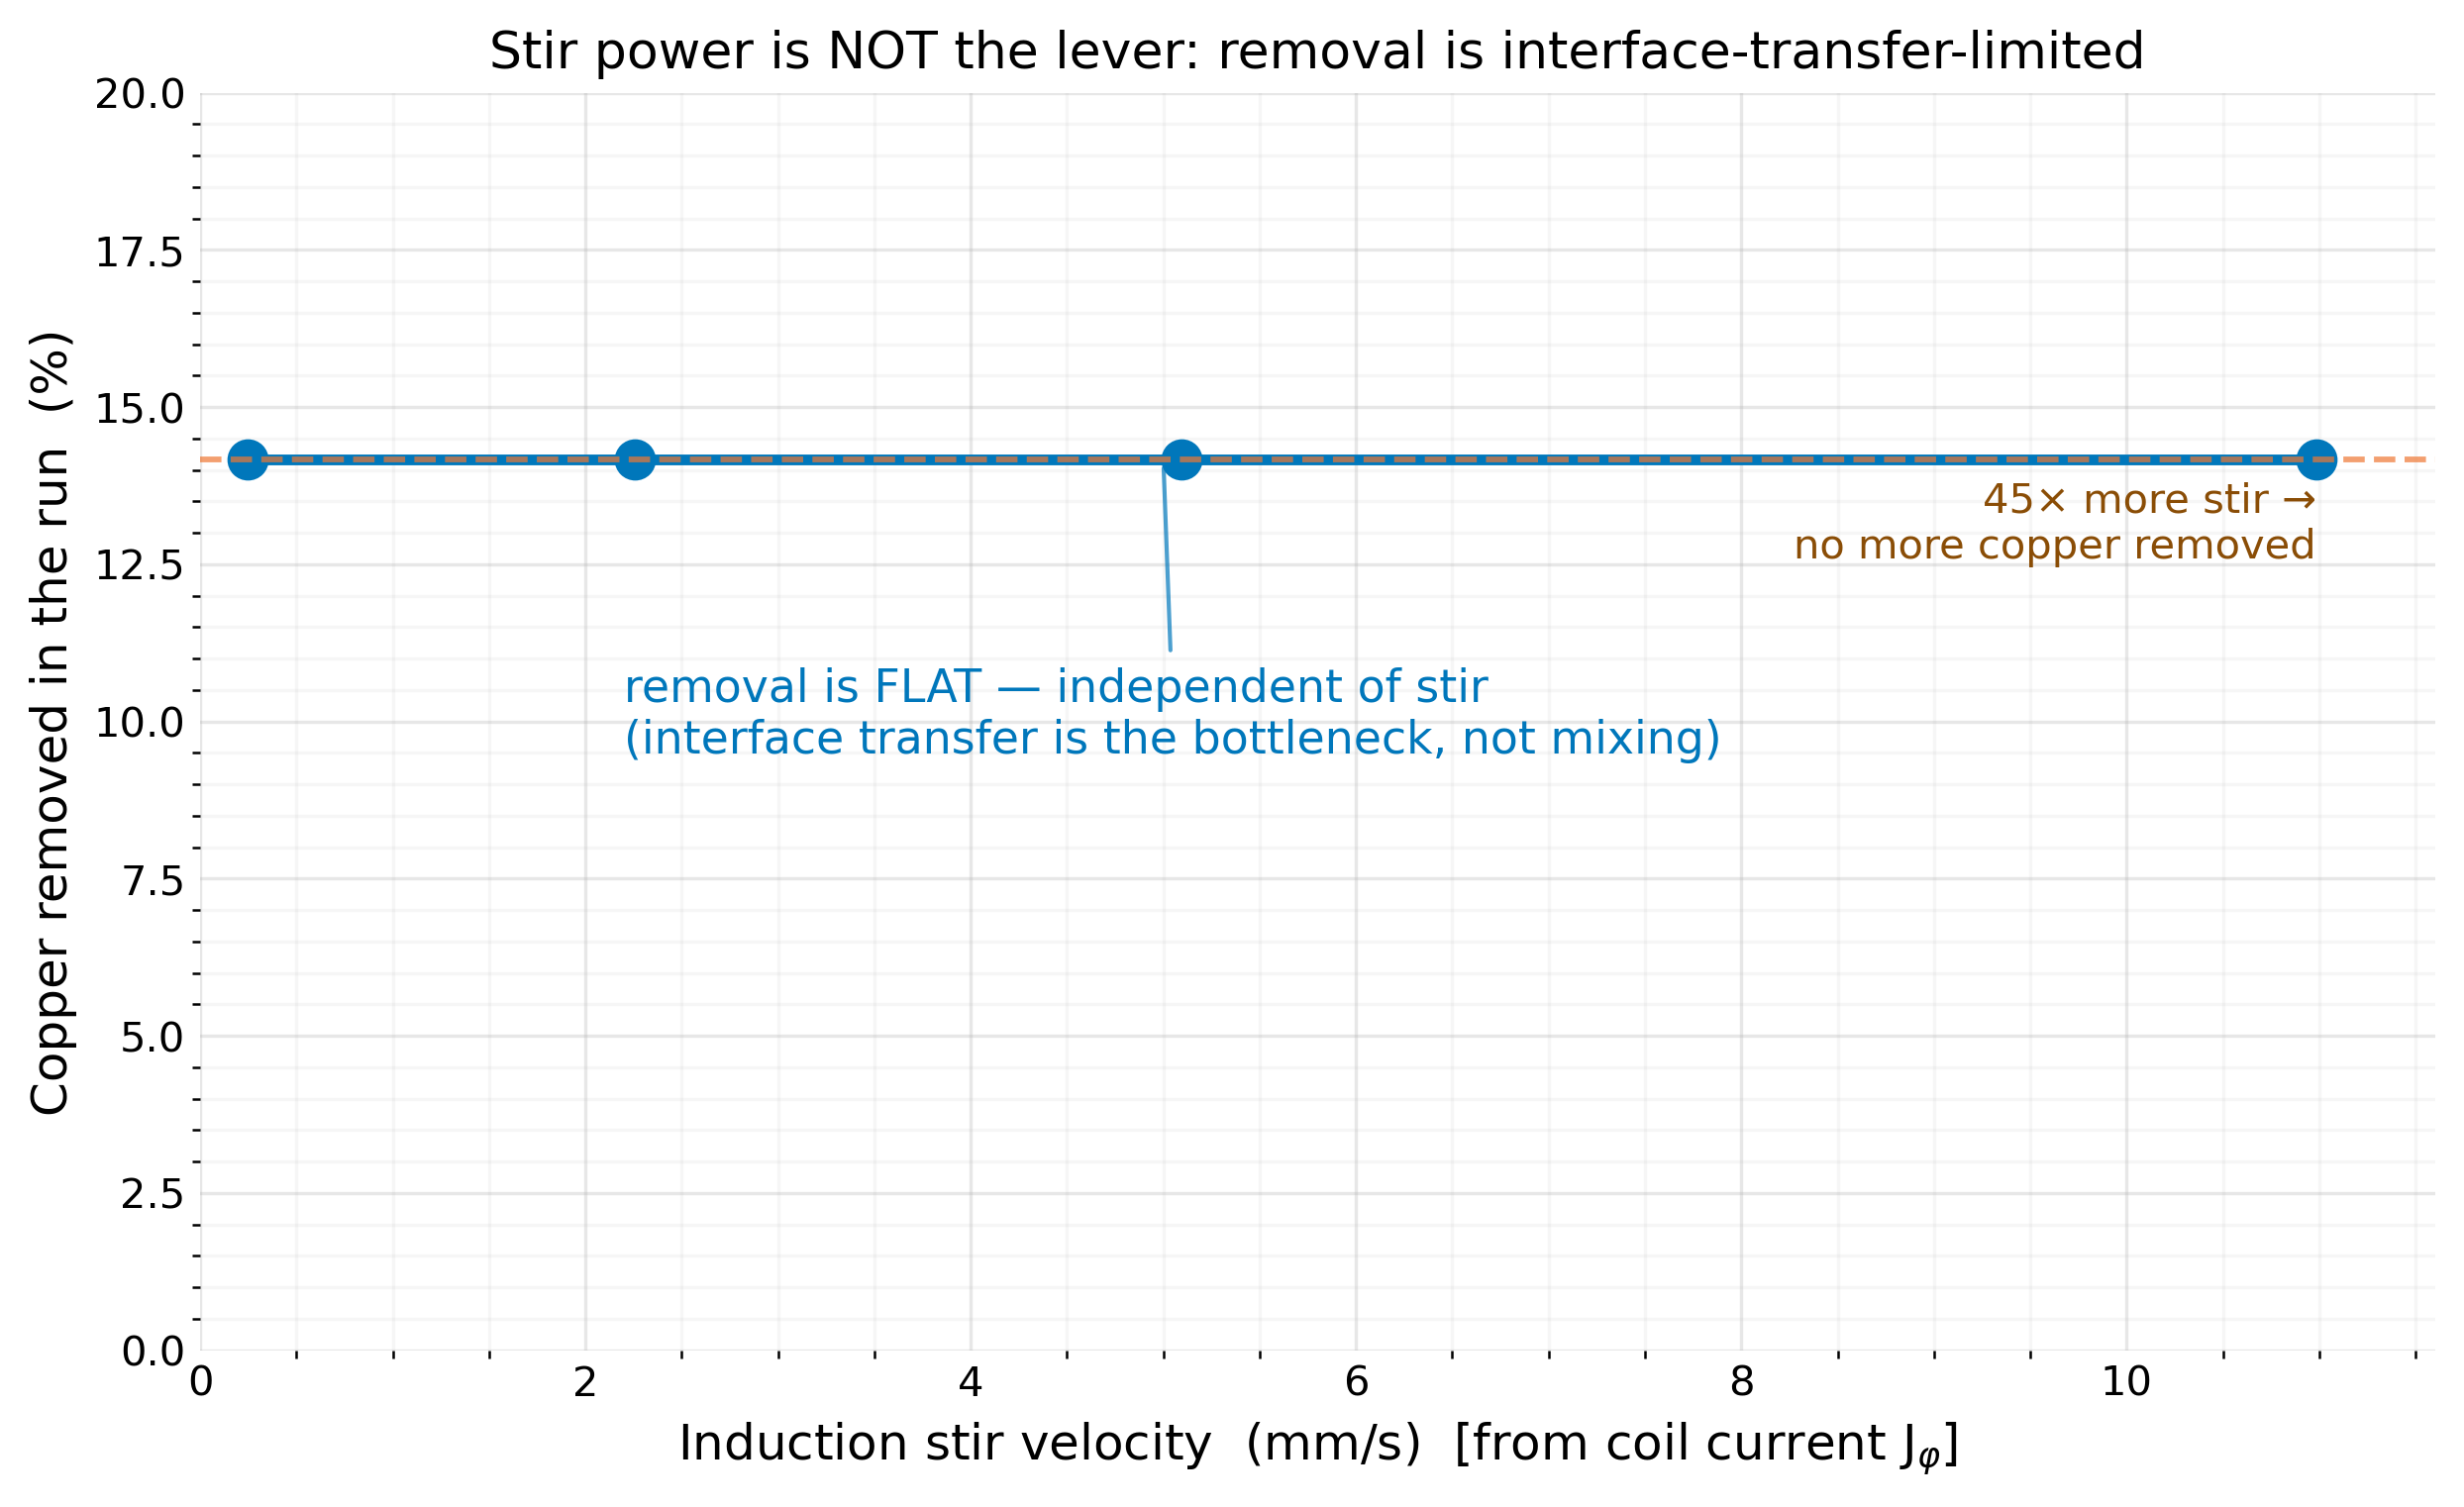
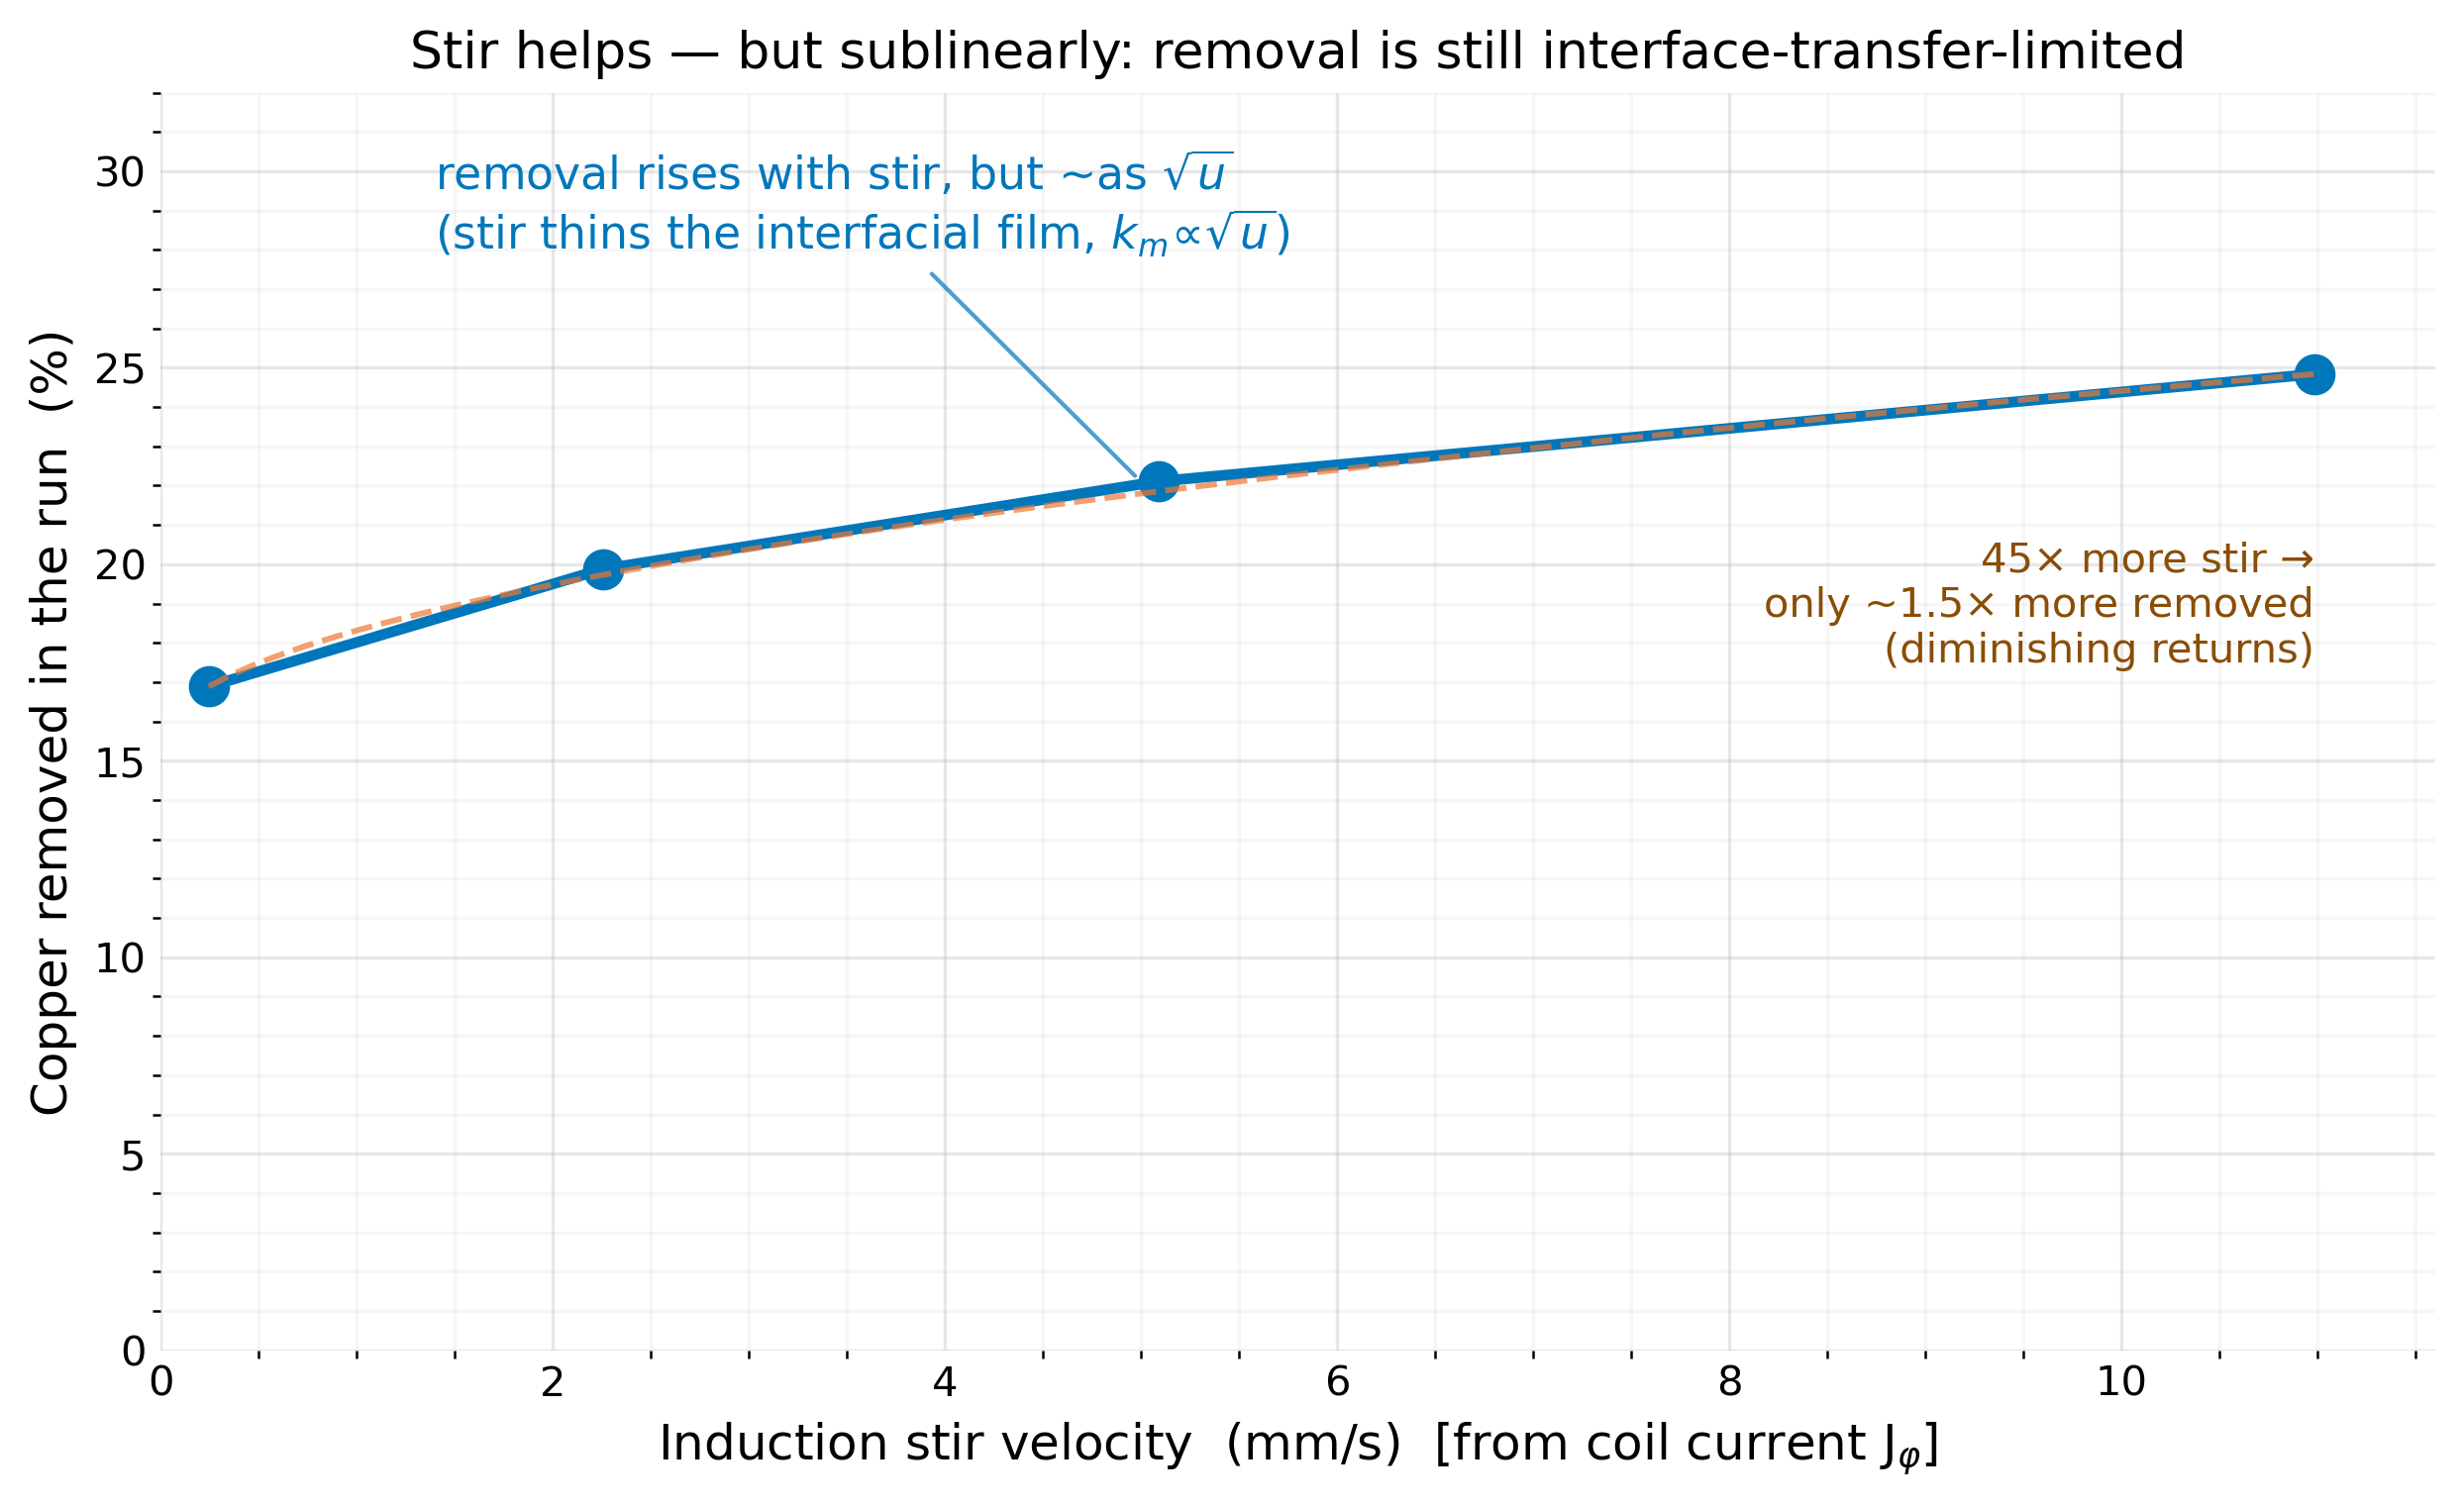
Two-lever update: stir sublinear (sqrt-law, saturates) vs area dominant (rate prop a, ->70%); add emulsification + characterization guidance

diff --git a/index.html b/index.html
@@ -296,18 +296,24 @@
   <p>Validated numbers: skin depth 18.9&nbsp;mm (field penetrates the 30&nbsp;mm crucible → it stirs),
   stir velocity 2.2&nbsp;mm/s, mass conserved to 0.9%.</p>
   <div class="correction" style="background:#eef4fb;border-color:#cfe0f2;border-left-color:#0b5394;color:#15324f;">
-  <b>The testable prediction.</b> Even at a vigorous 2.2&nbsp;mm/s stir, only ~18% of the steel's copper
-  crosses into the matte in 30&nbsp;minutes. The stir homogenizes the *bulk* steel quickly, but copper
-  crosses the interface slowly at the real diffusivity — so the <b>rate-limiting step is interfacial mass
-  transfer, not bulk mixing</b>. The practical lever is interfacial <b>area</b> (disperse the matte into
-  droplets / flotation), not more coil power. This is falsifiable: removal rate should scale with
-  interfacial area and saturate with stir intensity. It independently reproduces the surface-vs-volume
-  ceiling from Part&nbsp;2.</p></div>
-  <figure><img src="two_levers.png" alt="two levers: stir flat, area rising">
-    <figcaption>Figure&nbsp;10b. Two model sweeps, opposite verdicts. <b>(a)</b> 45&times; more induction
-    stir → copper removal unchanged (14.2%). <b>(b)</b> at fixed stir, 30&times; more interfacial
-    transport/area → removal nearly triples (14→40%). The actionable prediction: <b>disperse the matte to
-    raise contact area; don't over-power the coil.</b></figcaption></figure>
+  <b>The testable prediction — two levers, one verdict.</b> The model has two distinct knobs, and they
+  behave differently. <b>Stir</b> thins the diffusion film at the interface ($k_m\!\propto\!D/\delta$,
+  $\delta\!\propto\!1/\sqrt{u}$), so removal <i>does</i> rise with coil power — but only as $\sqrt{u}$:
+  in the sweep, <b>45× more stir buys just ~1.5× more copper removed</b> (≈17→25% over 30&nbsp;min).
+  Strongly diminishing returns. <b>Interfacial area</b>, by contrast, multiplies the removal <i>rate</i>
+  directly ($\dot C\!\propto\!k_m a$) — disperse the matte into droplets and <b>30× more contact area drives
+  3.5× more removal</b> (20→70% over the same 30&nbsp;min), pushing toward the thermodynamic ceiling. So the
+  rate-limiting step is interfacial mass transfer, and the <b>scalable lever is area, not coil power</b>:
+  the √-law stir knob plateaus near 25%; the area knob keeps climbing toward the equilibrium floor. This is
+  falsifiable — removal rate should rise sublinearly (√) with stir and linearly with interfacial area — and
+  it independently reproduces the surface-vs-volume ceiling from Part&nbsp;2.</p></div>
+  <figure><img src="two_levers.png" alt="two levers: stir sublinear, area linear">
+    <figcaption>Figure&nbsp;10b. Two model sweeps from the same operating point (stir 2.26&nbsp;mm/s,
+    19.9% baseline). <b>(a)</b> 45&times; more induction stir → only ~1.5&times; more copper removed
+    (17→25%): the √-law of boundary-layer thinning, so stir <i>saturates</i>. <b>(b)</b> at fixed stir,
+    30&times; more interfacial area → 3.5&times; more removal (20→70%), driving toward the equilibrium
+    ceiling — because the removal <i>rate</i> is linear in area. The actionable prediction: <b>disperse the
+    matte to raise contact area; don't over-power the coil.</b></figcaption></figure>
   <p style="font-size:13px;color:#5a6b80;"><i>Provenance: the electromagnetics, Joule heat, and
   Lorentz-stir are first-principles Maxwell + Navier–Stokes. The partition is modeled as an affinity
   drift calibrated to the CALPHAD partition L≈18 (TCOX14). Material properties are realistic but
@@ -319,9 +325,17 @@
 <div class="guide">
   <h3 style="margin-top:0;">Guidance for the Fontana-lab melt</h3>
   <ul>
-    <li><b>Stirring is mandatory, not optional.</b> The route is transport-limited (Panels&nbsp;3, 7).
-      Unstirred, copper takes days to reach an interface; a stirred ~0.5&nbsp;mm boundary layer makes it
-      minutes. Use a motor-driven graphite rod with logged RPM.</li>
+    <li><b>Area is the scalable lever — emulsify the matte.</b> The model says removal rises ~linearly with
+      steel/matte contact area but only as √(stir). So the single highest-leverage move is to break the
+      matte into <b>fine droplets dispersed in the steel</b>, not to crank the coil. Droplet breakup is set
+      by the Weber number $We=\rho u^2 d/\sigma$: emulsify with <b>gas injection</b> (argon lance / porous
+      plug — the standard ladle-metallurgy method, rising bubbles shear the interface) and/or a
+      <b>high-shear impeller</b>, and/or lower the steel/matte interfacial tension $\sigma$ with flux
+      composition. Induction stir alone is too gentle to emulsify — that is exactly why panel&nbsp;(a)
+      saturates.</li>
+    <li><b>Stirring is still mandatory.</b> The route is transport-limited (Panels&nbsp;3, 7). Unstirred,
+      copper takes days to reach an interface; a stirred ~0.5&nbsp;mm boundary layer makes it minutes. Use a
+      motor-driven graphite rod with logged RPM — but treat stir as the floor, emulsification as the lever.</li>
     <li><b>Lead with a high-Na₂S sulfide flux</b> — it does the bulk removal (partition ~18). Watch the
       <b>dose</b>: too little flux and the equilibrium floor sits above 0.10&nbsp;wt% (Panel&nbsp;8), so
       use enough matte or pair it with the pump.</li>
@@ -331,6 +345,18 @@
       recover copper as metal — only worth it once you are flux-limited.</li>
     <li><b>Run a no-additive control melt</b> under identical conditions, and measure Cu wt% before/after
       (OES or XRF). Fe₂O₃ powder as an oxygen vehicle, open air.</li>
+  </ul>
+  <h3 style="margin-bottom:6px;">Characterizing interfacial area (so the "area lever" is measurable, not hand-waved)</h3>
+  <ul>
+    <li><b>Quench &amp; section.</b> Rapidly quench a melt sample, polish, image the frozen matte droplets
+      (optical / SEM) → droplet-size distribution → specific area $a=6\phi/\bar d$. This is the direct
+      readout of how well you emulsified.</li>
+    <li><b>Removal kinetics.</b> Sample Cu vs time and fit $dC/dt=-k_m a\,(C-C_\mathrm{eq})$ → the lumped
+      $k_m a$. Repeat across gas-flow / impeller-speed settings → that <i>is</i> the area-lever curve,
+      measured. It tests the model's linear-in-area, sublinear-in-stir prediction head-on.</li>
+    <li><b>Cold model (optional, cheap).</b> Transparent water (steel) + oil (matte) with matched
+      density/viscosity/interfacial-tension ratios; high-speed video of droplet breakup vs shear → a
+      Weber-number correlation $\bar d(u)$ you can apply back to the melt.</li>
   </ul>
 </div>
 

diff --git a/story.html b/story.html
@@ -296,18 +296,24 @@
   <p>Validated numbers: skin depth 18.9&nbsp;mm (field penetrates the 30&nbsp;mm crucible → it stirs),
   stir velocity 2.2&nbsp;mm/s, mass conserved to 0.9%.</p>
   <div class="correction" style="background:#eef4fb;border-color:#cfe0f2;border-left-color:#0b5394;color:#15324f;">
-  <b>The testable prediction.</b> Even at a vigorous 2.2&nbsp;mm/s stir, only ~18% of the steel's copper
-  crosses into the matte in 30&nbsp;minutes. The stir homogenizes the *bulk* steel quickly, but copper
-  crosses the interface slowly at the real diffusivity — so the <b>rate-limiting step is interfacial mass
-  transfer, not bulk mixing</b>. The practical lever is interfacial <b>area</b> (disperse the matte into
-  droplets / flotation), not more coil power. This is falsifiable: removal rate should scale with
-  interfacial area and saturate with stir intensity. It independently reproduces the surface-vs-volume
-  ceiling from Part&nbsp;2.</p></div>
-  <figure><img src="two_levers.png" alt="two levers: stir flat, area rising">
-    <figcaption>Figure&nbsp;10b. Two model sweeps, opposite verdicts. <b>(a)</b> 45&times; more induction
-    stir → copper removal unchanged (14.2%). <b>(b)</b> at fixed stir, 30&times; more interfacial
-    transport/area → removal nearly triples (14→40%). The actionable prediction: <b>disperse the matte to
-    raise contact area; don't over-power the coil.</b></figcaption></figure>
+  <b>The testable prediction — two levers, one verdict.</b> The model has two distinct knobs, and they
+  behave differently. <b>Stir</b> thins the diffusion film at the interface ($k_m\!\propto\!D/\delta$,
+  $\delta\!\propto\!1/\sqrt{u}$), so removal <i>does</i> rise with coil power — but only as $\sqrt{u}$:
+  in the sweep, <b>45× more stir buys just ~1.5× more copper removed</b> (≈17→25% over 30&nbsp;min).
+  Strongly diminishing returns. <b>Interfacial area</b>, by contrast, multiplies the removal <i>rate</i>
+  directly ($\dot C\!\propto\!k_m a$) — disperse the matte into droplets and <b>30× more contact area drives
+  3.5× more removal</b> (20→70% over the same 30&nbsp;min), pushing toward the thermodynamic ceiling. So the
+  rate-limiting step is interfacial mass transfer, and the <b>scalable lever is area, not coil power</b>:
+  the √-law stir knob plateaus near 25%; the area knob keeps climbing toward the equilibrium floor. This is
+  falsifiable — removal rate should rise sublinearly (√) with stir and linearly with interfacial area — and
+  it independently reproduces the surface-vs-volume ceiling from Part&nbsp;2.</p></div>
+  <figure><img src="two_levers.png" alt="two levers: stir sublinear, area linear">
+    <figcaption>Figure&nbsp;10b. Two model sweeps from the same operating point (stir 2.26&nbsp;mm/s,
+    19.9% baseline). <b>(a)</b> 45&times; more induction stir → only ~1.5&times; more copper removed
+    (17→25%): the √-law of boundary-layer thinning, so stir <i>saturates</i>. <b>(b)</b> at fixed stir,
+    30&times; more interfacial area → 3.5&times; more removal (20→70%), driving toward the equilibrium
+    ceiling — because the removal <i>rate</i> is linear in area. The actionable prediction: <b>disperse the
+    matte to raise contact area; don't over-power the coil.</b></figcaption></figure>
   <p style="font-size:13px;color:#5a6b80;"><i>Provenance: the electromagnetics, Joule heat, and
   Lorentz-stir are first-principles Maxwell + Navier–Stokes. The partition is modeled as an affinity
   drift calibrated to the CALPHAD partition L≈18 (TCOX14). Material properties are realistic but
@@ -319,9 +325,17 @@
 <div class="guide">
   <h3 style="margin-top:0;">Guidance for the Fontana-lab melt</h3>
   <ul>
-    <li><b>Stirring is mandatory, not optional.</b> The route is transport-limited (Panels&nbsp;3, 7).
-      Unstirred, copper takes days to reach an interface; a stirred ~0.5&nbsp;mm boundary layer makes it
-      minutes. Use a motor-driven graphite rod with logged RPM.</li>
+    <li><b>Area is the scalable lever — emulsify the matte.</b> The model says removal rises ~linearly with
+      steel/matte contact area but only as √(stir). So the single highest-leverage move is to break the
+      matte into <b>fine droplets dispersed in the steel</b>, not to crank the coil. Droplet breakup is set
+      by the Weber number $We=\rho u^2 d/\sigma$: emulsify with <b>gas injection</b> (argon lance / porous
+      plug — the standard ladle-metallurgy method, rising bubbles shear the interface) and/or a
+      <b>high-shear impeller</b>, and/or lower the steel/matte interfacial tension $\sigma$ with flux
+      composition. Induction stir alone is too gentle to emulsify — that is exactly why panel&nbsp;(a)
+      saturates.</li>
+    <li><b>Stirring is still mandatory.</b> The route is transport-limited (Panels&nbsp;3, 7). Unstirred,
+      copper takes days to reach an interface; a stirred ~0.5&nbsp;mm boundary layer makes it minutes. Use a
+      motor-driven graphite rod with logged RPM — but treat stir as the floor, emulsification as the lever.</li>
     <li><b>Lead with a high-Na₂S sulfide flux</b> — it does the bulk removal (partition ~18). Watch the
       <b>dose</b>: too little flux and the equilibrium floor sits above 0.10&nbsp;wt% (Panel&nbsp;8), so
       use enough matte or pair it with the pump.</li>
@@ -331,6 +345,18 @@
       recover copper as metal — only worth it once you are flux-limited.</li>
     <li><b>Run a no-additive control melt</b> under identical conditions, and measure Cu wt% before/after
       (OES or XRF). Fe₂O₃ powder as an oxygen vehicle, open air.</li>
+  </ul>
+  <h3 style="margin-bottom:6px;">Characterizing interfacial area (so the "area lever" is measurable, not hand-waved)</h3>
+  <ul>
+    <li><b>Quench &amp; section.</b> Rapidly quench a melt sample, polish, image the frozen matte droplets
+      (optical / SEM) → droplet-size distribution → specific area $a=6\phi/\bar d$. This is the direct
+      readout of how well you emulsified.</li>
+    <li><b>Removal kinetics.</b> Sample Cu vs time and fit $dC/dt=-k_m a\,(C-C_\mathrm{eq})$ → the lumped
+      $k_m a$. Repeat across gas-flow / impeller-speed settings → that <i>is</i> the area-lever curve,
+      measured. It tests the model's linear-in-area, sublinear-in-stir prediction head-on.</li>
+    <li><b>Cold model (optional, cheap).</b> Transparent water (steel) + oil (matte) with matched
+      density/viscosity/interfacial-tension ratios; high-speed video of droplet breakup vs shear → a
+      Weber-number correlation $\bar d(u)$ you can apply back to the melt.</li>
   </ul>
 </div>
 